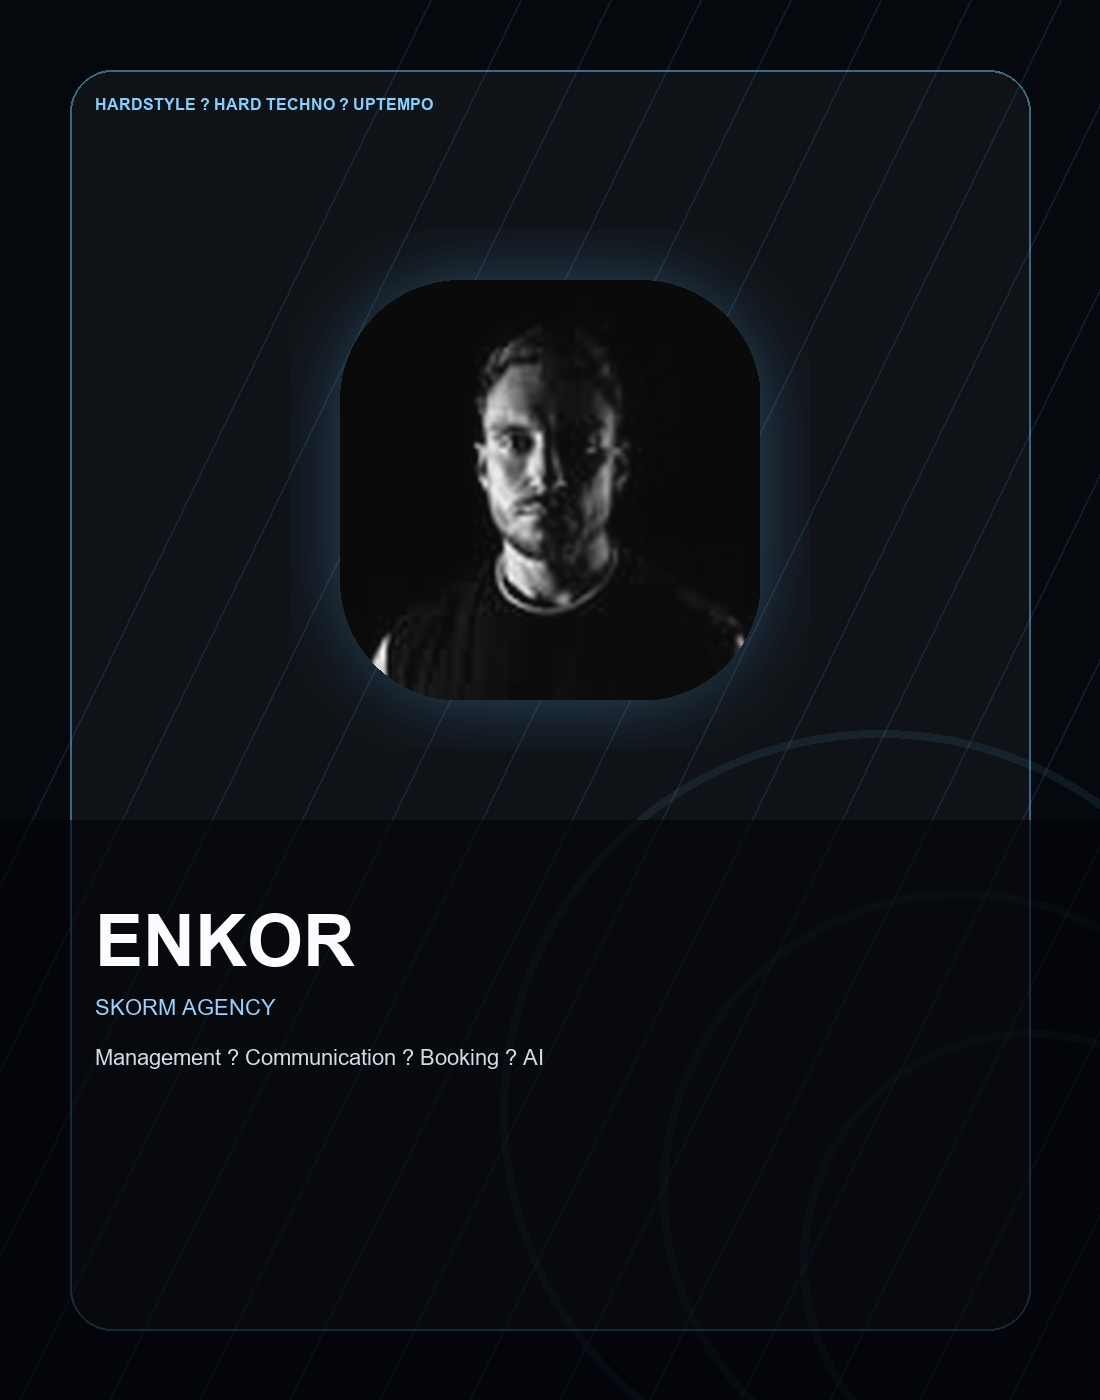
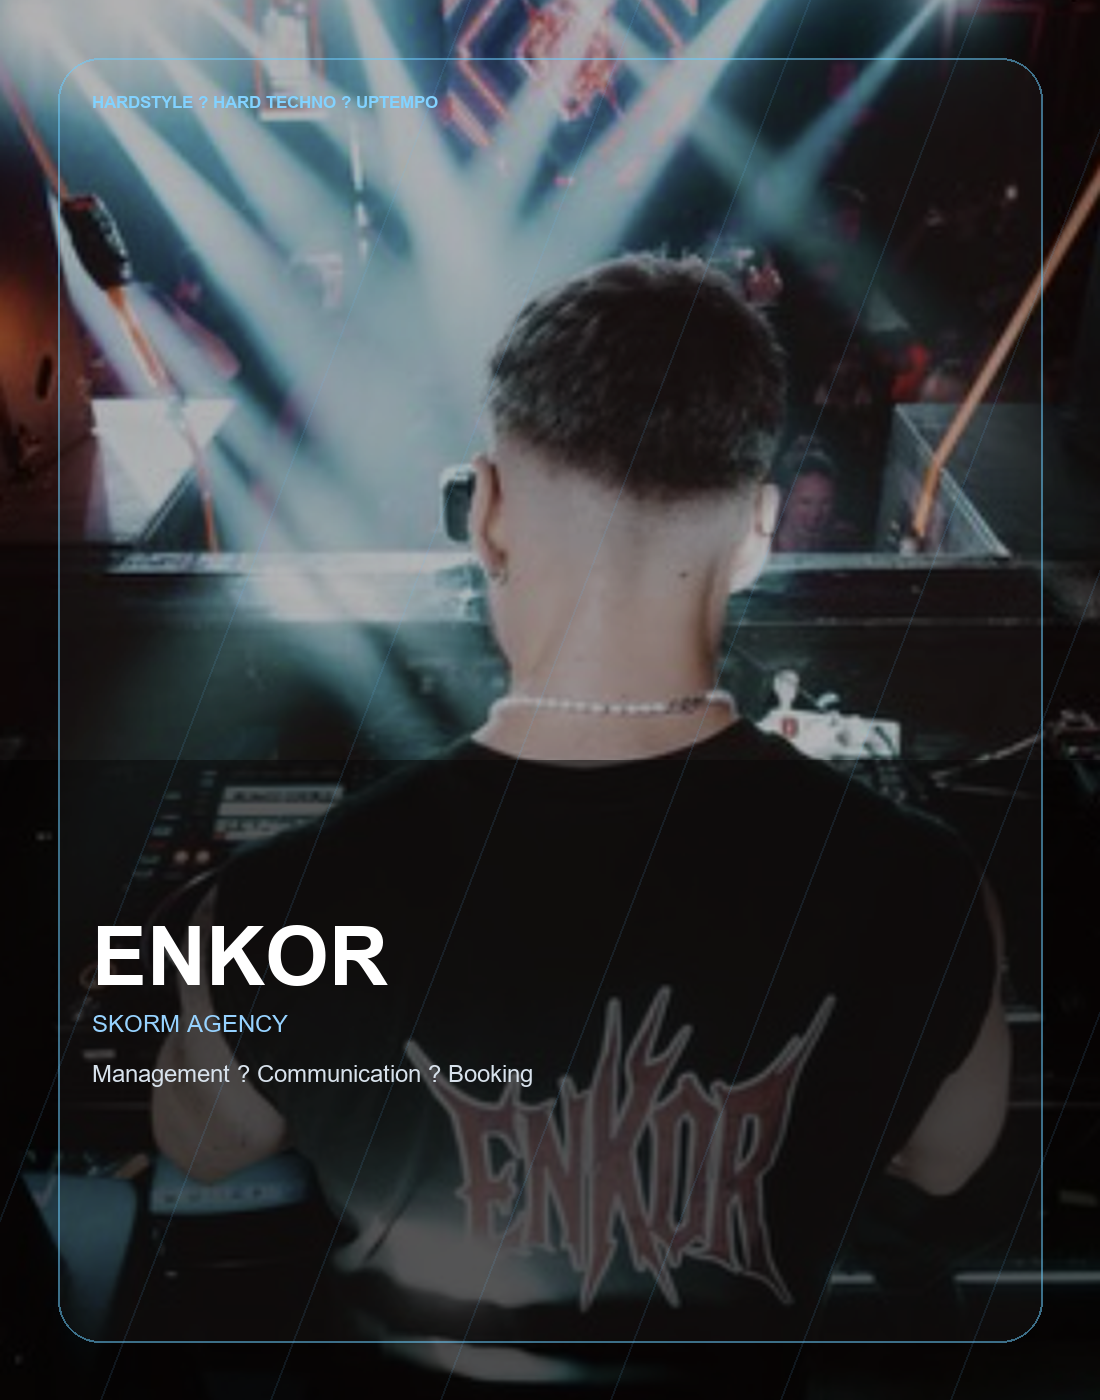
Refine artist media players and photos

diff --git a/src/lib/content.ts b/src/lib/content.ts
@@ -58,7 +58,7 @@ export const artists = [
     role: "Structuration presskit, image, contenus, plateformes et opportunités live.",
     instagram: "https://www.instagram.com/enkor.music/",
     homeImage: "/artists/home-enkor-blue.png",
-    heroImage: "/artists/enkor-instagram.jpg",
+    heroImage: "/artists/enkor-photo.png",
     socials: [
       { label: "Instagram", href: "https://www.instagram.com/enkor.music/" },
       { label: "Spotify", href: "https://open.spotify.com/artist/7qKUegxEovvAn4c1xqxbi3" },
@@ -75,7 +75,7 @@ export const artists = [
     role: "Développement image, contenus, réseaux et préparation des demandes pros.",
     instagram: "https://www.instagram.com/nova.hardlab/",
     homeImage: "/artists/home-nova-hardlab-blue.png",
-    heroImage: "/artists/nova-hardlab-instagram.jpg",
+    heroImage: "/artists/nova-hardlab-photo.png",
     socials: [
       { label: "Instagram", href: "https://www.instagram.com/nova.hardlab/" },
       { label: "Booking", href: "/contact" },
@@ -131,37 +131,23 @@ export const artistMedia = {
   },
   enkor: {
     sounds: [
-      { title: "ENKOR", meta: "Spotify artist profile", cover: "/artists/enkor-instagram.jpg", href: "https://open.spotify.com/artist/7qKUegxEovvAn4c1xqxbi3" },
-      { title: "SoundCloud", meta: "ENKOR AV1K", cover: "/artists/enkor-instagram.jpg", href: "https://soundcloud.com/enkor-av1k" },
-      { title: "YouTube", meta: "ENKOR official channel", cover: "/artists/enkor-instagram.jpg", href: "https://www.youtube.com/@enkor-av1k" },
+      { title: "ENKOR", meta: "SoundCloud officiel", cover: "/artists/enkor-soundcloud.jpg", href: "https://soundcloud.com/enkor-av1k" },
     ],
     releases: [
-      { title: "ENKOR", meta: "Spotify", cover: "/artists/enkor-instagram.jpg", href: "https://open.spotify.com/artist/7qKUegxEovvAn4c1xqxbi3" },
-      { title: "Hard music feed", meta: "SoundCloud", cover: "/artists/enkor-instagram.jpg", href: "https://soundcloud.com/enkor-av1k" },
-      { title: "Presskit officiel", meta: "MyPressKit", cover: "/artists/enkor-instagram.jpg", href: "https://www.mypresskit.info/artist/enkor" },
+      { title: "ENKOR", meta: "Spotify officiel", cover: "/artists/enkor-soundcloud.jpg", href: "https://open.spotify.com/artist/7qKUegxEovvAn4c1xqxbi3" },
+      { title: "SoundCloud", meta: "Hard or nothing", cover: "/artists/enkor-soundcloud.jpg", href: "https://soundcloud.com/enkor-av1k" },
     ],
     videos: [
-      { title: "ENKOR channel", meta: "YouTube officiel", cover: "/artists/enkor-instagram.jpg", href: "https://www.youtube.com/@enkor-av1k" },
-      { title: "Presskit videos", meta: "MyPressKit officiel", cover: "/artists/enkor-instagram.jpg", href: "https://www.mypresskit.info/artist/enkor" },
-      { title: "Instagram feed", meta: "@enkor.music", cover: "/artists/enkor-instagram.jpg", href: "https://www.instagram.com/enkor.music/" },
+      { title: "Tapage Nocturne", meta: "Instagram officiel · 6MIC", cover: "/artists/enkor-photo.png", href: "https://www.instagram.com/p/DTyFWkmjY0b/" },
+      { title: "Closing Tormento", meta: "Instagram officiel · Cabaret Aléatoire", cover: "/artists/enkor-photo.png", href: "https://www.instagram.com/p/DV9D_Zujab1/" },
+      { title: "Closing Baby Club", meta: "Instagram officiel", cover: "/artists/enkor-photo.png", href: "https://www.instagram.com/p/DXXH7EiDZoZ/" },
+      { title: "Closing Requiem", meta: "Instagram officiel · South Connexion", cover: "/artists/enkor-photo.png", href: "https://www.instagram.com/p/DYAWzjYjf6I/" },
     ],
   },
   "nova-hardlab": {
-    sounds: [
-      { title: "Nova Hardlab", meta: "Instagram official", cover: "/artists/nova-hardlab-instagram.jpg", href: "https://www.instagram.com/nova.hardlab/" },
-      { title: "Hardlab feed", meta: "Rave visuals & posts", cover: "/artists/nova-hardlab-instagram.jpg", href: "https://www.instagram.com/nova.hardlab/" },
-      { title: "Booking material", meta: "SKORM follow-up", cover: "/artists/nova-hardlab-instagram.jpg", href: "/contact" },
-    ],
-    releases: [
-      { title: "Nova Hardlab", meta: "Official profile", cover: "/artists/nova-hardlab-instagram.jpg", href: "https://www.instagram.com/nova.hardlab/" },
-      { title: "Hard techno lab", meta: "Content feed", cover: "/artists/nova-hardlab-instagram.jpg", href: "https://www.instagram.com/nova.hardlab/" },
-      { title: "Rave direction", meta: "SKORM", cover: "/artists/nova-hardlab-instagram.jpg", href: "/contact" },
-    ],
-    videos: [
-      { title: "Instagram videos", meta: "@nova.hardlab", cover: "/artists/nova-hardlab-instagram.jpg", href: "https://www.instagram.com/nova.hardlab/" },
-      { title: "Live content", meta: "Official feed", cover: "/artists/nova-hardlab-instagram.jpg", href: "https://www.instagram.com/nova.hardlab/" },
-      { title: "Rave lab", meta: "Profile", cover: "/artists/nova-hardlab-instagram.jpg", href: "https://www.instagram.com/nova.hardlab/" },
-    ],
+    sounds: [],
+    releases: [],
+    videos: [],
   },
 } as const;
 

diff --git a/src/components/home-artist-card.tsx b/src/components/home-artist-card.tsx
@@ -10,7 +10,7 @@ export function HomeArtistCard({
   release,
 }: {
   artist: { slug: string; name: string; genre: string; instagram: string; homeImage?: string };
-  release: { title: string; meta?: string; cover?: string; href?: string; deezerId?: string };
+  release?: { title: string; meta?: string; cover?: string; href?: string; deezerId?: string };
 }) {
   const homeImage = artist.homeImage || "/artists/home-cgl-real-blue.png";
 
@@ -27,7 +27,7 @@ export function HomeArtistCard({
         </div>
 
         <div className="profile-bottom-strip">
-          <div className="profile-latest-release">
+          {release ? <div className="profile-latest-release">
             {release.cover && (
               <span className="profile-release-cover">
                 <Image src={release.cover} alt={`Miniature officielle ${release.title}`} fill sizes="64px" />
@@ -39,7 +39,13 @@ export function HomeArtistCard({
               {release.meta && <em>{release.meta}</em>}
             </div>
             <MediaPlayButton href={release.href} deezerId={release.deezerId} title={release.title} label="Lire" />
-          </div>
+          </div> : <div className="profile-latest-release profile-latest-release-empty">
+            <div>
+              <span>Médias</span>
+              <strong>À venir</strong>
+              <em>Liens officiels en préparation</em>
+            </div>
+          </div>}
 
           <div className="profile-socials">
             <a href={artist.instagram} target="_blank" rel="noreferrer" aria-label={`Instagram ${artist.name}`}>

diff --git a/src/app/artistes/[slug]/page.tsx b/src/app/artistes/[slug]/page.tsx
@@ -159,9 +159,15 @@ export default async function ArtistPage({ params }: { params: Promise<{ slug: s
       </section>
 
       <section className="artist-section-shell artist-media-area">
-        <MediaRail title="Derniers sons" label="Sounds" variant="sound" image={artist.slug === "paga" ? "/artists/paga-cover-night.png" : heroImage} items={media.sounds} />
-        <MediaRail title="Écoute directe" label="Streaming" variant="spotify" image={artist.slug === "paga" ? "/artists/paga-cover-blue.png" : heroImage} items={media.releases} />
-        <MediaRail title="Dernières vidéos" label="Videos" variant="video" image={heroImage} items={media.videos} />
+        {media.sounds.length > 0 && (
+          <MediaRail title="Derniers sons" label="Sounds" variant="sound" image={artist.slug === "paga" ? "/artists/paga-cover-night.png" : heroImage} items={media.sounds} />
+        )}
+        {media.releases.length > 0 && (
+          <MediaRail title="Écoute directe" label="Streaming" variant="spotify" image={artist.slug === "paga" ? "/artists/paga-cover-blue.png" : heroImage} items={media.releases} />
+        )}
+        {media.videos.length > 0 && (
+          <MediaRail title="Dernières vidéos" label="Videos" variant="video" image={heroImage} items={media.videos} />
+        )}
       </section>
     </main>
   );

diff --git a/src/components/media-play-button.tsx b/src/components/media-play-button.tsx
@@ -24,6 +24,9 @@ function getEmbedUrl(href?: string) {
     if (url.hostname.includes("open.spotify.com")) {
       return href.replace("open.spotify.com/", "open.spotify.com/embed/");
     }
+    if (url.hostname.includes("soundcloud.com")) {
+      return `https://w.soundcloud.com/player/?url=${encodeURIComponent(href)}&auto_play=true&visual=false&show_comments=false&show_user=true&show_reposts=false&show_teaser=false`;
+    }
   } catch {
     return null;
   }
@@ -45,6 +48,7 @@ export function MediaPlayButton({
   const [playing, setPlaying] = useState(false);
   const [open, setOpen] = useState(false);
   const embedUrl = useMemo(() => getEmbedUrl(href), [href]);
+  const compactEmbed = embedUrl?.includes("w.soundcloud.com") || embedUrl?.includes("open.spotify.com/embed/");
 
   async function play() {
     if (deezerId) {
@@ -76,6 +80,7 @@ export function MediaPlayButton({
           </button>
           <iframe
             src={embedUrl}
+            className={compactEmbed ? "media-modal-compact-frame" : undefined}
             title={title}
             allow="autoplay; clipboard-write; encrypted-media; picture-in-picture; web-share"
             allowFullScreen

diff --git a/src/app/globals.css b/src/app/globals.css
@@ -5661,6 +5661,12 @@ body {
   background: var(--ec-ink) !important;
 }
 
+.media-modal iframe.media-modal-compact-frame {
+  width: min(520px, 92vw) !important;
+  height: 176px !important;
+  border-radius: 18px !important;
+}
+
 /* Admin + private user area */
 .admin-shell {
   color: var(--ec-ink) !important;
